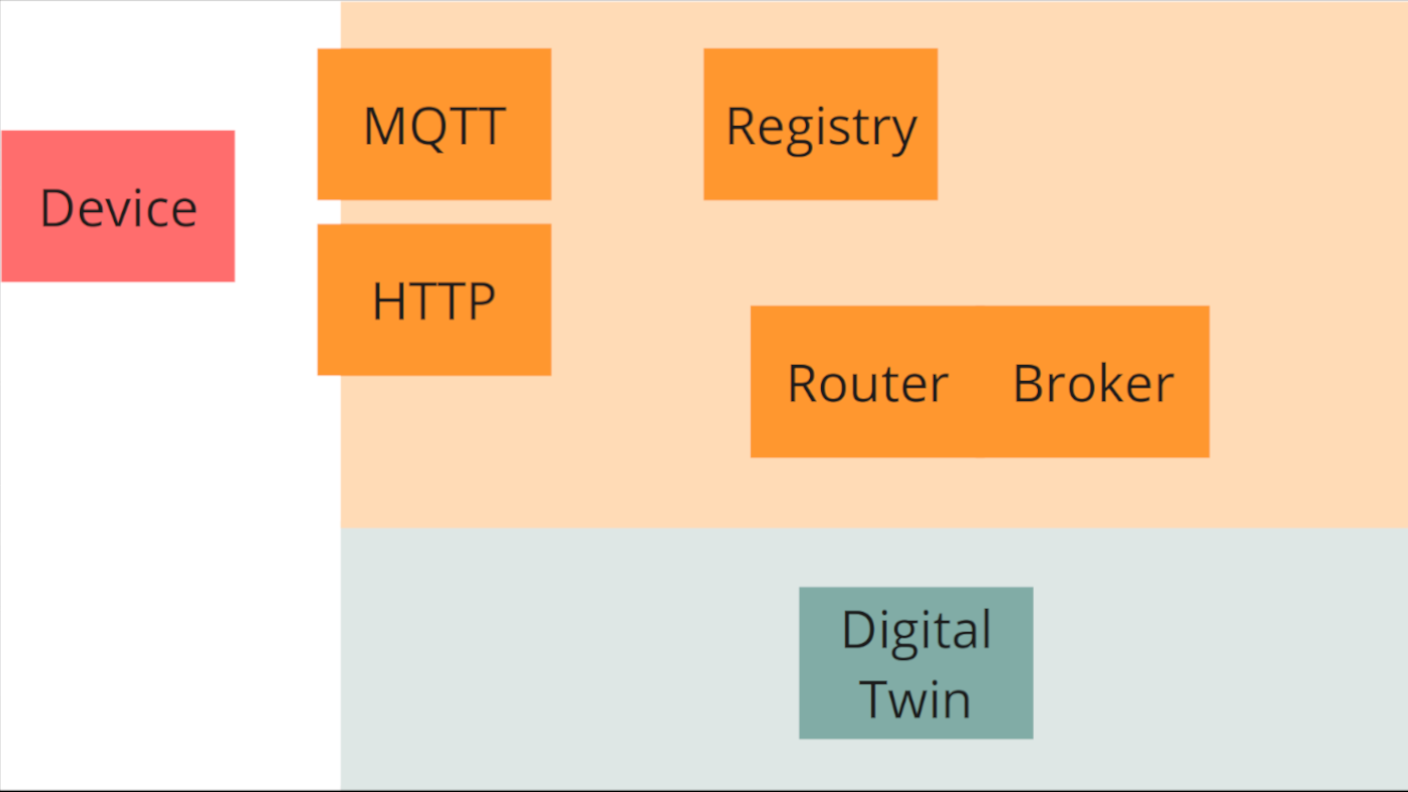
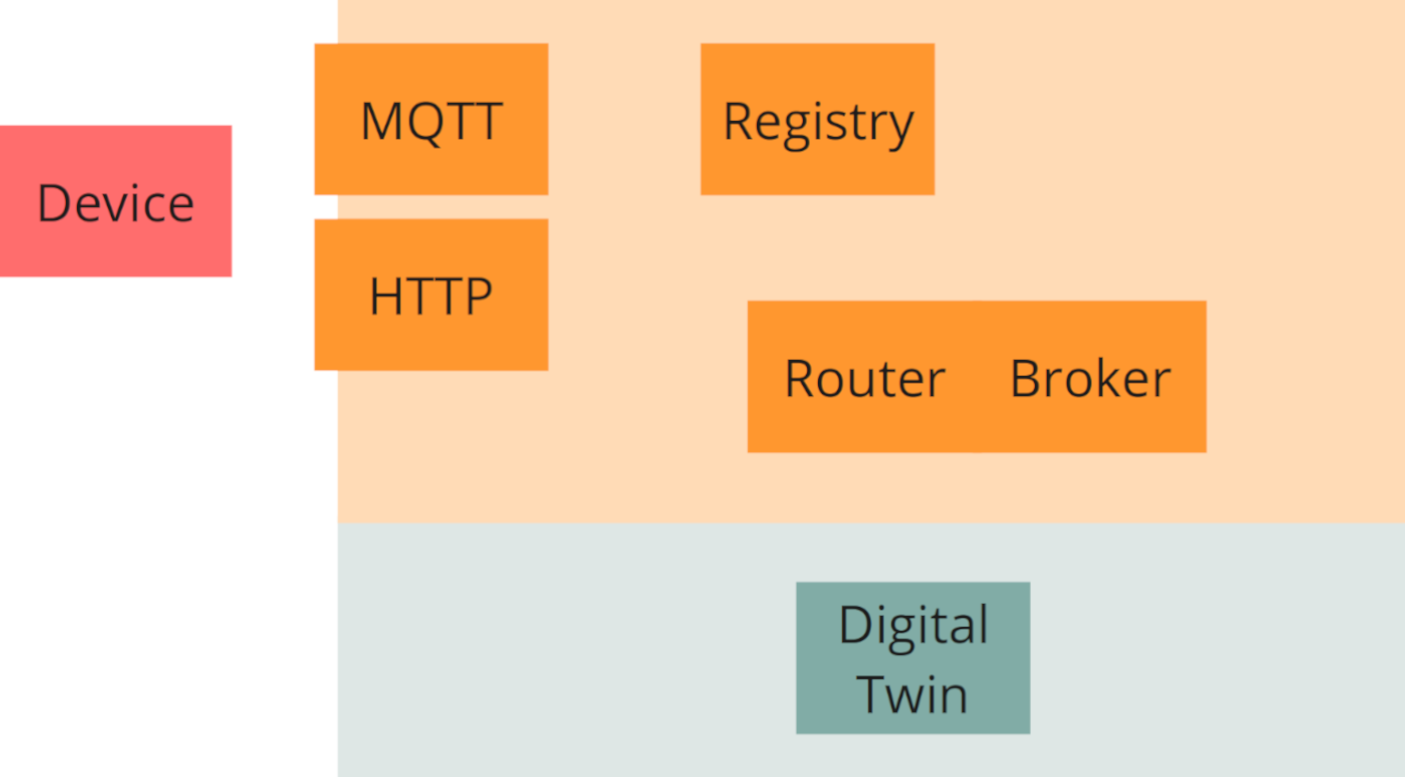
update arch imgs and fix cards

diff --git a/src/pages/index.module.css b/src/pages/index.module.css
@@ -198,14 +198,6 @@
     box-shadow: var(--ifm-global-shadow-lw);
     display: flex;
     flex-direction: column;
-    transition:
-        transform 0.3s ease,
-        box-shadow 0.3s ease;
-}
-
-.appCard:hover {
-    transform: translateY(-4px);
-    box-shadow: var(--ifm-global-shadow-md);
 }
 
 .appCardTitle {
@@ -224,17 +216,9 @@
 }
 
 .appImageWrapper {
-    background-color: var(--ifm-background-surface-color);
-    border: 1px solid var(--ifm-card-border-color);
     border-radius: 6px;
     overflow: hidden;
     aspect-ratio: 16/9;
-    display: flex;
-    align-items: center;
-    justify-content: center;
-    color: var(--ifm-text-color-base);
-    font-size: 0.875rem;
-    transition: opacity 0.3s ease;
 }
 
 .appImageWrapper img {

diff --git a/src/pages/index.js b/src/pages/index.js
@@ -201,7 +201,7 @@ function AppShowcase() {
                         <div className={styles.appImageWrapper}>
                             {
                                 <img
-                                    src="/pei-automotive-microsite/img/carbon.png"
+                                    src="/pei-automotive-microsite/img/services.png"
                                     alt="Backend Architecture"
                                 />
                             }